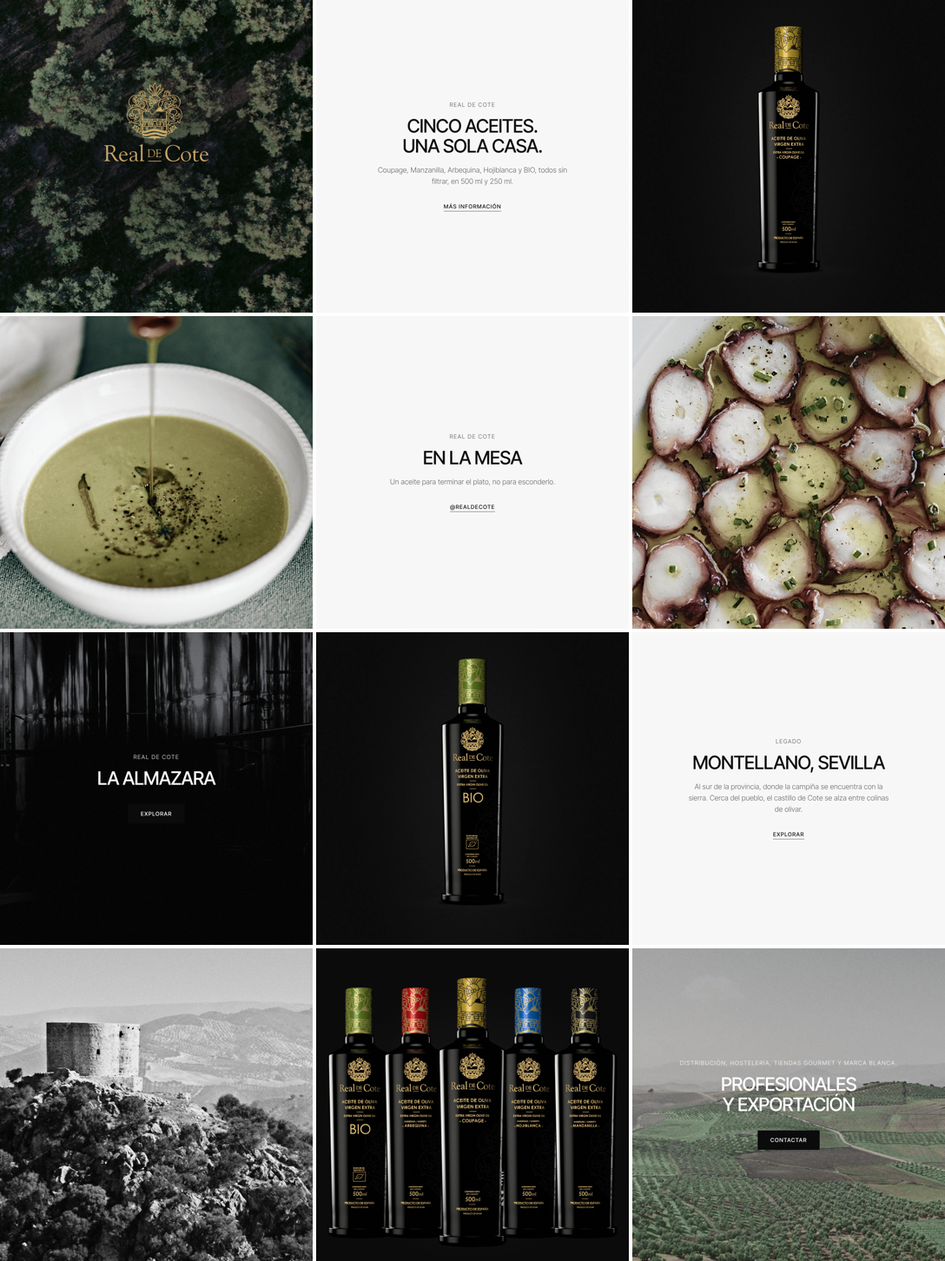
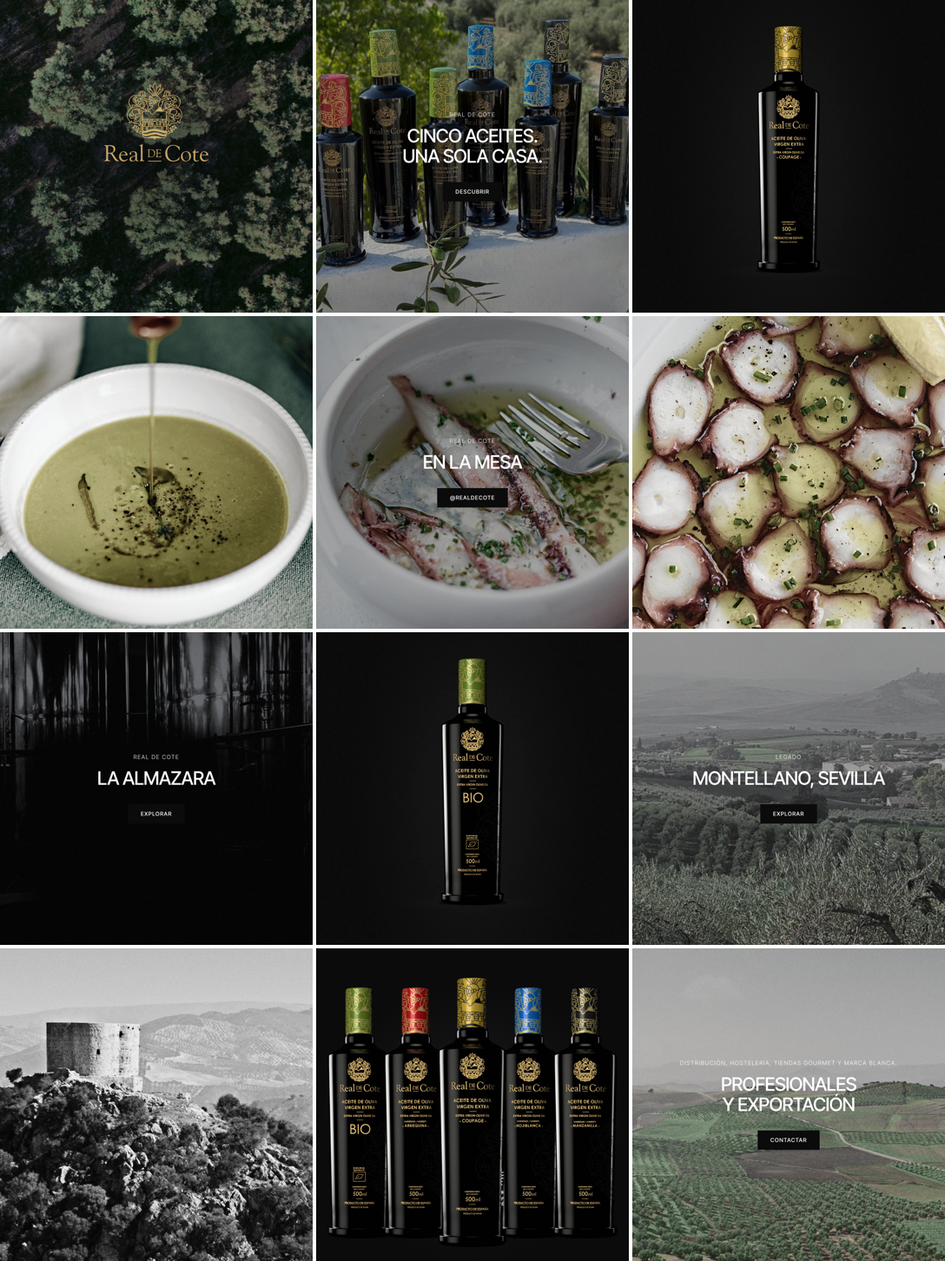
Open every carousel with a photo; fix dish photo order in carousels 4 and 5
Claude-Session: https://claude.ai/code/session_01V2Rynvxapw1gCZn9iDyVeW

Changed region(s): [[0.3125, 0.0, 1.0, 0.7748]]

diff --git a/instagram/grid/grid.html b/instagram/grid/grid.html
@@ -17,13 +17,10 @@ p{font-size:25px;line-height:1.55;color:#666;font-weight:300;margin-top:30px;max
 .cap small{display:block;font-size:17px;color:#999;margin-top:8px;font-weight:300}
 </style></head><body><section id="p1" class="s"><div class="ph" style="background-image:url(foto_hileras-1440.jpg);background-position:35% 45%;background-size:150%;"></div><div class="ph" style="background:radial-gradient(ellipse 60% 45% at 50% 52%,rgba(11,11,12,.5),rgba(11,11,12,.15) 60%,rgba(11,11,12,0))"></div>
 <img src="logo-gold.png" class="abs" style="width:360px;left:360px;top:420px">
-<div class="abs tag" style="left:72px;bottom:72px">Aceite de oliva virgen extra</div></section><section id="p2" class="s light"><div class="c">
- <div class="ov">Real de Cote</div><h1>Cinco aceites.<br>Una sola casa.</h1><p>Coupage, Manzanilla, Arbequina, Hojiblanca y BIO, todos sin filtrar, en 500 ml y 250 ml.</p><div class="cta">Más información</div>
-</div></section><section id="p3" class="s"><div class="ph" style="background-image:url(botellas_coupage_estudio.webp);background-position:center;background-size:cover;"></div><div class="abs cap" style="left:0;width:1080px;text-align:center;bottom:84px">Coupage<small>De la casa</small></div></section><section id="p4" class="s"><div class="ph" style="background-image:url(mesa-1-1920.jpg);background-position:50% 40%;background-size:cover;"></div></section><section id="p5" class="s light"><div class="c">
- <div class="ov">Real de Cote</div><h1>En la mesa</h1><p>Un aceite para terminar el plato, no para esconderlo.</p><div class="cta">@realdecote</div>
-</div></section><section id="p6" class="s"><div class="ph" style="background-image:url(mesa-3-1920.jpg);background-position:50% 50%;background-size:cover;"></div></section><section id="p7" class="s dark"><div class="ph" style="background-image:url(foto_bodega-1920.jpg);background-position:60% 30%;background-size:cover;"></div><div class="ph" style="background:rgba(0,0,0,.5)"></div><div class="c w">
- <div class="ov">Real de Cote</div><h1>La almazara</h1><div class="cta">Explorar</div></div></section><section id="p8" class="s"><div class="ph" style="background-image:url(botellas_bio_estudio.webp);background-position:center;background-size:cover;"></div><div class="abs cap" style="left:0;width:1080px;text-align:center;bottom:84px">BIO<small>Ecológico</small></div></section><section id="p9" class="s light"><div class="c">
- <div class="ov">Legado</div><h1>Montellano, Sevilla</h1><p>Al sur de la provincia, donde la campiña se encuentra con la sierra. Cerca del pueblo, el castillo de Cote se alza entre colinas de olivar.</p><div class="cta">Explorar</div>
-</div></section><section id="p10" class="s"><div class="ph" style="background-image:url(foto_castillo-cote-1920.jpg);background-position:45% 35%;background-size:cover;"></div></section><section id="p11" class="s" style="background:radial-gradient(ellipse 70% 50% at 50% 55%,#1c1c1e,#0b0b0c 70%)"><img src="bio-cutout.png" class="abs" style="width:1100px;left:-400px;top:40px"><img src="arbequina-cutout.png" class="abs" style="width:1100px;left:-205px;top:40px"><img src="hojiblanca-cutout.png" class="abs" style="width:1100px;left:185px;top:40px"><img src="manzanilla-cutout.png" class="abs" style="width:1100px;left:380px;top:40px"><img src="coupage-cutout.png" class="abs" style="width:1180px;left:-50px;top:-10px">
+<div class="abs tag" style="left:72px;bottom:72px">Aceite de oliva virgen extra</div></section><section id="p2" class="s dark"><div class="ph" style="background-image:url(muro-2400.jpg);background-position:50% 50%;background-size:cover;"></div><div class="ph" style="background:rgba(0,0,0,.35)"></div><div class="c w">
+ <div class="ov">Real de Cote</div><h1>Cinco aceites.<br>Una sola casa.</h1><div class="cta">Descubrir</div></div></section><section id="p3" class="s"><div class="ph" style="background-image:url(botellas_coupage_estudio.webp);background-position:center;background-size:cover;"></div><div class="abs cap" style="left:0;width:1080px;text-align:center;bottom:84px">Coupage<small>De la casa</small></div></section><section id="p4" class="s"><div class="ph" style="background-image:url(mesa-1-1920.jpg);background-position:50% 40%;background-size:cover;"></div></section><section id="p5" class="s dark"><div class="ph" style="background-image:url(mesa-5-1920.jpg);background-position:50% 45%;background-size:cover;"></div><div class="ph" style="background:rgba(0,0,0,.3)"></div><div class="c w">
+ <div class="ov">Real de Cote</div><h1>En la mesa</h1><div class="cta">@realdecote</div></div></section><section id="p6" class="s"><div class="ph" style="background-image:url(mesa-3-1920.jpg);background-position:50% 50%;background-size:cover;"></div></section><section id="p7" class="s dark"><div class="ph" style="background-image:url(foto_bodega-1920.jpg);background-position:60% 30%;background-size:cover;"></div><div class="ph" style="background:rgba(0,0,0,.5)"></div><div class="c w">
+ <div class="ov">Real de Cote</div><h1>La almazara</h1><div class="cta">Explorar</div></div></section><section id="p8" class="s"><div class="ph" style="background-image:url(botellas_bio_estudio.webp);background-position:center;background-size:cover;"></div><div class="abs cap" style="left:0;width:1080px;text-align:center;bottom:84px">BIO<small>Ecológico</small></div></section><section id="p9" class="s dark"><div class="ph" style="background-image:url(finca-1920.jpg);background-position:50% 50%;background-size:cover;"></div><div class="ph" style="background:rgba(0,0,0,.35)"></div><div class="c w">
+ <div class="ov">Legado</div><h1>Montellano, Sevilla</h1><div class="cta">Explorar</div></div></section><section id="p10" class="s"><div class="ph" style="background-image:url(foto_castillo-cote-1920.jpg);background-position:45% 35%;background-size:cover;"></div></section><section id="p11" class="s" style="background:radial-gradient(ellipse 70% 50% at 50% 55%,#1c1c1e,#0b0b0c 70%)"><img src="bio-cutout.png" class="abs" style="width:1100px;left:-400px;top:40px"><img src="arbequina-cutout.png" class="abs" style="width:1100px;left:-205px;top:40px"><img src="hojiblanca-cutout.png" class="abs" style="width:1100px;left:185px;top:40px"><img src="manzanilla-cutout.png" class="abs" style="width:1100px;left:380px;top:40px"><img src="coupage-cutout.png" class="abs" style="width:1180px;left:-50px;top:-10px">
 <div class="abs tag" style="left:72px;bottom:72px;color:#fff">La colección</div></section><section id="p12" class="s dark"><div class="ph" style="background-image:url(olivar-colinas-1920.jpg);background-position:50% 60%;background-size:cover;"></div><div class="ph" style="background:rgba(0,0,0,.25)"></div><div class="c w">
  <div class="ov">Distribución, hostelería, tiendas gourmet y marca blanca.</div><h1>Profesionales<br>y exportación</h1><div class="cta">Contactar</div></div></section></body></html>

diff --git a/instagram/grid/carrusel-02.html b/instagram/grid/carrusel-02.html
@@ -18,4 +18,4 @@ p{font-size:25px;line-height:1.55;color:#666;font-weight:300;margin-top:30px;max
 .cap small{display:block;font-size:17px;color:#999;margin-top:8px;font-weight:300}
 .num{position:absolute;right:72px;top:64px;font-size:18px;letter-spacing:.2em;color:#999}
 .dark .num,.s:not(.light) .num{color:rgba(255,255,255,.6)}
-</style></head><body><section id="p2" class="s"><div class="ph" style="background-image:url(botellas_coupage_estudio.webp);background-position:center;background-size:cover"></div><div class="abs cap" style="left:0;width:1080px;text-align:center;bottom:84px">Coupage<small>De la casa</small></div><div class="num">2 / 7</div></section><section id="p3" class="s"><div class="ph" style="background-image:url(botellas_manzanilla_estudio.webp);background-position:center;background-size:cover"></div><div class="abs cap" style="left:0;width:1080px;text-align:center;bottom:84px">Manzanilla<small>Monovarietal</small></div><div class="num">3 / 7</div></section><section id="p4" class="s"><div class="ph" style="background-image:url(botellas_arbequina_estudio.webp);background-position:center;background-size:cover"></div><div class="abs cap" style="left:0;width:1080px;text-align:center;bottom:84px">Arbequina<small>Monovarietal</small></div><div class="num">4 / 7</div></section><section id="p5" class="s"><div class="ph" style="background-image:url(botellas_hojiblanca_estudio.webp);background-position:center;background-size:cover"></div><div class="abs cap" style="left:0;width:1080px;text-align:center;bottom:84px">Hojiblanca<small>Monovarietal</small></div><div class="num">5 / 7</div></section><section id="p6" class="s"><div class="ph" style="background-image:url(botellas_bio_estudio.webp);background-position:center;background-size:cover"></div><div class="abs cap" style="left:0;width:1080px;text-align:center;bottom:84px">BIO<small>Ecológico</small></div><div class="num">6 / 7</div></section><section id="p7" class="s light"><div class="c"><div class="ov">Formatos</div><h1>500 ml · 250 ml</h1><p>Cada aceite con su ficha técnica: variedad, información nutricional, formatos y conservación.</p><div class=cta>Más información</div></div><div class="num">7 / 7</div></section></body></html>
+</style></head><body><section id="p2" class="s light"><div class="c"><div class="ov">Real de Cote</div><h1>Cinco aceites.<br>Una sola casa.</h1><p>Coupage, Manzanilla, Arbequina, Hojiblanca y BIO, todos sin filtrar, en 500 ml y 250 ml.</p></div><div class="num">2 / 8</div></section><section id="p3" class="s"><div class="ph" style="background-image:url(botellas_coupage_estudio.webp);background-position:center;background-size:cover"></div><div class="abs cap" style="left:0;width:1080px;text-align:center;bottom:84px">Coupage<small>De la casa</small></div><div class="num">3 / 8</div></section><section id="p4" class="s"><div class="ph" style="background-image:url(botellas_manzanilla_estudio.webp);background-position:center;background-size:cover"></div><div class="abs cap" style="left:0;width:1080px;text-align:center;bottom:84px">Manzanilla<small>Monovarietal</small></div><div class="num">4 / 8</div></section><section id="p5" class="s"><div class="ph" style="background-image:url(botellas_arbequina_estudio.webp);background-position:center;background-size:cover"></div><div class="abs cap" style="left:0;width:1080px;text-align:center;bottom:84px">Arbequina<small>Monovarietal</small></div><div class="num">5 / 8</div></section><section id="p6" class="s"><div class="ph" style="background-image:url(botellas_hojiblanca_estudio.webp);background-position:center;background-size:cover"></div><div class="abs cap" style="left:0;width:1080px;text-align:center;bottom:84px">Hojiblanca<small>Monovarietal</small></div><div class="num">6 / 8</div></section><section id="p7" class="s"><div class="ph" style="background-image:url(botellas_bio_estudio.webp);background-position:center;background-size:cover"></div><div class="abs cap" style="left:0;width:1080px;text-align:center;bottom:84px">BIO<small>Ecológico</small></div><div class="num">7 / 8</div></section><section id="p8" class="s light"><div class="c"><div class="ov">Formatos</div><h1>500 ml · 250 ml</h1><p>Cada aceite con su ficha técnica: variedad, información nutricional, formatos y conservación.</p><div class=cta>Más información</div></div><div class="num">8 / 8</div></section></body></html>

diff --git a/instagram/grid/carrusel-09.html b/instagram/grid/carrusel-09.html
@@ -18,4 +18,4 @@ p{font-size:25px;line-height:1.55;color:#666;font-weight:300;margin-top:30px;max
 .cap small{display:block;font-size:17px;color:#999;margin-top:8px;font-weight:300}
 .num{position:absolute;right:72px;top:64px;font-size:18px;letter-spacing:.2em;color:#999}
 .dark .num,.s:not(.light) .num{color:rgba(255,255,255,.6)}
-</style></head><body><section id="p2" class="s"><div class="ph" style="background-image:url(foto_castillo-cote-1920.jpg);background-position:45% 35%;background-size:cover"></div><div class="num">2 / 6</div></section><section id="p3" class="s light"><div class="c"><div class="ov">Legado</div><h1>Montellano</h1><p>Al sur de la provincia de Sevilla, donde la campiña se encuentra con la sierra.</p></div><div class="num">3 / 6</div></section><section id="p4" class="s"><div class="ph" style="background-image:url(finca-1920.jpg);background-position:50% 50%;background-size:cover"></div><div class="num">4 / 6</div></section><section id="p5" class="s light"><div class="c"><div class="ov">Legado</div><h1>Finca Cote</h1><p>Ctra. de Coripe, km 2,3. Entre colinas de olivar.</p></div><div class="num">5 / 6</div></section><section id="p6" class="s" style="background:linear-gradient(180deg,#0b0b0c,#0a1626)"><img src="logo-gold.png" class="abs" style="width:230px;left:425px;top:520px"><div class="abs cap" style="left:0;width:1080px;text-align:center;top:800px;font-weight:300;letter-spacing:.3em;font-size:17px">realdecote.es · @realdecote</div><div class="num">6 / 6</div></section></body></html>
+</style></head><body><section id="p2" class="s light"><div class="c"><div class="ov">Legado</div><h1>Montellano, Sevilla</h1><p>Cerca del pueblo, el castillo de Cote se alza en lo alto de un cerro, entre colinas de olivar.</p></div><div class="num">2 / 7</div></section><section id="p3" class="s"><div class="ph" style="background-image:url(foto_castillo-cote-1920.jpg);background-position:45% 35%;background-size:cover"></div><div class="num">3 / 7</div></section><section id="p4" class="s light"><div class="c"><div class="ov">Legado</div><h1>Montellano</h1><p>Al sur de la provincia de Sevilla, donde la campiña se encuentra con la sierra.</p></div><div class="num">4 / 7</div></section><section id="p5" class="s"><div class="ph" style="background-image:url(finca-1920.jpg);background-position:50% 50%;background-size:cover"></div><div class="num">5 / 7</div></section><section id="p6" class="s light"><div class="c"><div class="ov">Legado</div><h1>Finca Cote</h1><p>Ctra. de Coripe, km 2,3. Entre colinas de olivar.</p></div><div class="num">6 / 7</div></section><section id="p7" class="s" style="background:linear-gradient(180deg,#0b0b0c,#0a1626)"><img src="logo-gold.png" class="abs" style="width:230px;left:425px;top:520px"><div class="abs cap" style="left:0;width:1080px;text-align:center;top:800px;font-weight:300;letter-spacing:.3em;font-size:17px">realdecote.es · @realdecote</div><div class="num">7 / 7</div></section></body></html>

diff --git a/instagram/grid/carrusel-05.html b/instagram/grid/carrusel-05.html
@@ -18,4 +18,4 @@ p{font-size:25px;line-height:1.55;color:#666;font-weight:300;margin-top:30px;max
 .cap small{display:block;font-size:17px;color:#999;margin-top:8px;font-weight:300}
 .num{position:absolute;right:72px;top:64px;font-size:18px;letter-spacing:.2em;color:#999}
 .dark .num,.s:not(.light) .num{color:rgba(255,255,255,.6)}
-</style></head><body><section id="p2" class="s"><div class="ph" style="background-image:url(mesa-2-1920.jpg);background-position:center;background-size:cover"></div><div class="num">2 / 6</div></section><section id="p3" class="s light"><div class="c"><div class="ov">En la mesa</div><h1>Crudo</h1><p>Donde el aceite se nota es en el plato terminado.</p></div><div class="num">3 / 6</div></section><section id="p4" class="s"><div class="ph" style="background-image:url(mesa-5-1920.jpg);background-position:50% 45%;background-size:cover"></div><div class="num">4 / 6</div></section><section id="p5" class="s light"><div class="c"><div class="ov">En la mesa</div><h1>También en dulce</h1><p>Un virgen extra de perfil suave en repostería.</p></div><div class="num">5 / 6</div></section><section id="p6" class="s" style="background:linear-gradient(180deg,#0b0b0c,#0a1626)"><img src="logo-gold.png" class="abs" style="width:230px;left:425px;top:520px"><div class="abs cap" style="left:0;width:1080px;text-align:center;top:800px;font-weight:300;letter-spacing:.3em;font-size:17px">realdecote.es · @realdecote</div><div class="num">6 / 6</div></section></body></html>
+</style></head><body><section id="p2" class="s light"><div class="c"><div class="ov">Real de Cote</div><h1>En la mesa</h1><p>Un aceite para terminar el plato, no para esconderlo.</p></div><div class="num">2 / 7</div></section><section id="p3" class="s"><div class="ph" style="background-image:url(mesa-2-1920.jpg);background-position:center;background-size:cover"></div><div class="num">3 / 7</div></section><section id="p4" class="s light"><div class="c"><div class="ov">En la mesa</div><h1>Crudo</h1><p>Donde el aceite se nota es en el plato terminado.</p></div><div class="num">4 / 7</div></section><section id="p5" class="s"><div class="ph" style="background-image:url(mesa-6-1440.jpg);background-position:50% 50%;background-size:cover"></div><div class="num">5 / 7</div></section><section id="p6" class="s light"><div class="c"><div class="ov">En la mesa</div><h1>También en dulce</h1><p>Un virgen extra de perfil suave en repostería.</p></div><div class="num">6 / 7</div></section><section id="p7" class="s" style="background:linear-gradient(180deg,#0b0b0c,#0a1626)"><img src="logo-gold.png" class="abs" style="width:230px;left:425px;top:520px"><div class="abs cap" style="left:0;width:1080px;text-align:center;top:800px;font-weight:300;letter-spacing:.3em;font-size:17px">realdecote.es · @realdecote</div><div class="num">7 / 7</div></section></body></html>

diff --git a/instagram/grid/carrusel-04.html b/instagram/grid/carrusel-04.html
@@ -18,4 +18,4 @@ p{font-size:25px;line-height:1.55;color:#666;font-weight:300;margin-top:30px;max
 .cap small{display:block;font-size:17px;color:#999;margin-top:8px;font-weight:300}
 .num{position:absolute;right:72px;top:64px;font-size:18px;letter-spacing:.2em;color:#999}
 .dark .num,.s:not(.light) .num{color:rgba(255,255,255,.6)}
-</style></head><body><section id="p2" class="s light"><div class="c"><div class="ov">En la mesa</div><h1>Un hilo<br>al final</h1><p>El aceite se añade al terminar, en crudo. Así conserva aroma y sabor.</p></div><div class="num">2 / 6</div></section><section id="p3" class="s"><div class="ph" style="background-image:url(mesa-6-1440.jpg);background-position:50% 50%;background-size:cover"></div><div class="num">3 / 6</div></section><section id="p4" class="s light"><div class="c"><div class="ov">En la mesa</div><h1>Pescado y aceite</h1><p>Bonito, conserva, marinado. Un monovarietal suave acompaña sin cubrir.</p></div><div class="num">4 / 6</div></section><section id="p5" class="s"><div class="ph" style="background-image:url(mesa-4-1920.jpg);background-position:50% 50%;background-size:cover"></div><div class="num">5 / 6</div></section><section id="p6" class="s" style="background:linear-gradient(180deg,#0b0b0c,#0a1626)"><img src="logo-gold.png" class="abs" style="width:230px;left:425px;top:520px"><div class="abs cap" style="left:0;width:1080px;text-align:center;top:800px;font-weight:300;letter-spacing:.3em;font-size:17px">realdecote.es · @realdecote</div><div class="num">6 / 6</div></section></body></html>
+</style></head><body><section id="p2" class="s light"><div class="c"><div class="ov">En la mesa</div><h1>Un hilo<br>al final</h1><p>El aceite se añade al terminar, en crudo. Así conserva aroma y sabor.</p></div><div class="num">2 / 6</div></section><section id="p3" class="s"><div class="ph" style="background-image:url(mesa-5-1920.jpg);background-position:50% 45%;background-size:cover"></div><div class="num">3 / 6</div></section><section id="p4" class="s light"><div class="c"><div class="ov">En la mesa</div><h1>Pescado y aceite</h1><p>Bonito, conserva, marinado. Un monovarietal suave acompaña sin cubrir.</p></div><div class="num">4 / 6</div></section><section id="p5" class="s"><div class="ph" style="background-image:url(mesa-4-1920.jpg);background-position:50% 50%;background-size:cover"></div><div class="num">5 / 6</div></section><section id="p6" class="s" style="background:linear-gradient(180deg,#0b0b0c,#0a1626)"><img src="logo-gold.png" class="abs" style="width:230px;left:425px;top:520px"><div class="abs cap" style="left:0;width:1080px;text-align:center;top:800px;font-weight:300;letter-spacing:.3em;font-size:17px">realdecote.es · @realdecote</div><div class="num">6 / 6</div></section></body></html>

diff --git a/instagram/grid/gen_carruseles.py b/instagram/grid/gen_carruseles.py
@@ -43,15 +43,15 @@ C={
     foto('foto_hoja-1920.jpg','40% 50%'),
     light('La casa','Cinco aceites.<br>Una sola casa.','Coupage, Manzanilla, Arbequina, Hojiblanca y BIO.','Descubrir'),
     foto('foto_hileras-1440.jpg','35% 45%','150%'),CIERRE],
- 2:[botella('coupage','Coupage','De la casa'),botella('manzanilla','Manzanilla','Monovarietal'),botella('arbequina','Arbequina','Monovarietal'),botella('hojiblanca','Hojiblanca','Monovarietal'),botella('bio','BIO','Ecológico'),
+ 2:[light('Real de Cote','Cinco aceites.<br>Una sola casa.','Coupage, Manzanilla, Arbequina, Hojiblanca y BIO, todos sin filtrar, en 500 ml y 250 ml.'),botella('coupage','Coupage','De la casa'),botella('manzanilla','Manzanilla','Monovarietal'),botella('arbequina','Arbequina','Monovarietal'),botella('hojiblanca','Hojiblanca','Monovarietal'),botella('bio','BIO','Ecológico'),
     light('Formatos','500 ml · 250 ml','Cada aceite con su ficha técnica: variedad, información nutricional, formatos y conservación.','Más información')],
  3:[detalle('coupage'),light('Coupage','De la casa','Varias variedades, un solo carácter. El aceite con el que empezar.'),
     foto('mesa-2-1920.jpg','50% 50%'),light('Coupage','Para todo','Crudo sobre pan, verdura, pescado o carne.'),CIERRE],
  4:[light('En la mesa','Un hilo<br>al final','El aceite se añade al terminar, en crudo. Así conserva aroma y sabor.'),
-    foto('mesa-6-1440.jpg','50% 50%'),light('En la mesa','Pescado y aceite','Bonito, conserva, marinado. Un monovarietal suave acompaña sin cubrir.'),
+    foto('mesa-5-1920.jpg','50% 45%'),light('En la mesa','Pescado y aceite','Bonito, conserva, marinado. Un monovarietal suave acompaña sin cubrir.'),
     foto('mesa-4-1920.jpg','50% 50%'),CIERRE],
- 5:[foto('mesa-2-1920.jpg'),light('En la mesa','Crudo','Donde el aceite se nota es en el plato terminado.'),
-    foto('mesa-5-1920.jpg','50% 45%'),light('En la mesa','También en dulce','Un virgen extra de perfil suave en repostería.'),CIERRE],
+ 5:[light('Real de Cote','En la mesa','Un aceite para terminar el plato, no para esconderlo.'),foto('mesa-2-1920.jpg'),light('En la mesa','Crudo','Donde el aceite se nota es en el plato terminado.'),
+    foto('mesa-6-1440.jpg','50% 50%'),light('En la mesa','También en dulce','Un virgen extra de perfil suave en repostería.'),CIERRE],
  6:[light('En la mesa','Pulpo, patata<br>y aceite','Un plato sencillo pide un aceite con carácter.'),
     botella('hojiblanca','Hojiblanca','Monovarietal'),light('Hojiblanca','Con cuerpo','Frutado intenso, ligero amargor y picante final.'),CIERRE],
  7:[light('La almazara','Sin filtrar','El aceite pasa a la botella tal como sale de la almazara. Por eso no es transparente.'),
@@ -59,7 +59,7 @@ C={
     foto('foto_bodega-1920.jpg','60% 30%'),CIERRE],
  8:[detalle('bio','50% 30%'),light('BIO','Ecológico','Olivar en ecológico, con certificación de la Unión Europea.'),
     foto('olivo-centenario-1920.jpg','50% 50%'),light('BIO','La tierra manda','Sin tratamientos de síntesis. El mismo cuidado, otro camino.'),CIERRE],
- 9:[foto('foto_castillo-cote-1920.jpg','45% 35%'),light('Legado','Montellano','Al sur de la provincia de Sevilla, donde la campiña se encuentra con la sierra.'),
+ 9:[light('Legado','Montellano, Sevilla','Cerca del pueblo, el castillo de Cote se alza en lo alto de un cerro, entre colinas de olivar.'),foto('foto_castillo-cote-1920.jpg','45% 35%'),light('Legado','Montellano','Al sur de la provincia de Sevilla, donde la campiña se encuentra con la sierra.'),
     foto('finca-1920.jpg','50% 50%'),light('Legado','Finca Cote','Ctra. de Coripe, km 2,3. Entre colinas de olivar.'),CIERRE],
  10:[light('Legado','El castillo<br>de Cote','En lo alto de un cerro, cerca del pueblo. El nombre de la casa viene de aquí.'),
     foto('olivar-colinas-1920.jpg','50% 60%'),light('Legado','Un paisaje','Olivar, campiña y sierra. Lo que se ve desde el castillo.'),

diff --git a/instagram/grid/gen.py b/instagram/grid/gen.py
@@ -14,13 +14,13 @@ posts.append(f'''<section class="s">{photo('foto_hileras-1440.jpg','35% 45%','15
 <img src="logo-gold.png" class="abs" style="width:360px;left:360px;top:420px">
 <div class="abs tag" style="left:72px;bottom:72px">Aceite de oliva virgen extra</div></section>''')
 # 2 · texto claro
-posts.append(light('Real de Cote','Cinco aceites.<br>Una sola casa.','Coupage, Manzanilla, Arbequina, Hojiblanca y BIO, todos sin filtrar, en 500 ml y 250 ml.','Más información'))
+posts.append(dark_over('muro-2400.jpg','Real de Cote','Cinco aceites.<br>Una sola casa.','50% 50%','Descubrir','.35'))
 # 3 · botella coupage sobre negro (foto de estudio)
 posts.append(f'''<section class="s">{photo('botellas_coupage_estudio.webp')}<div class="abs cap" style="left:0;width:1080px;text-align:center;bottom:84px">Coupage<small>De la casa</small></div></section>''')
 # 4 · plato
 posts.append(f'<section class="s">{photo("mesa-1-1920.jpg","50% 40%")}</section>')
 # 5 · En la mesa (texto claro, como la sección)
-posts.append(light('Real de Cote','En la mesa','Un aceite para terminar el plato, no para esconderlo.','@realdecote'))
+posts.append(dark_over('mesa-5-1920.jpg','Real de Cote','En la mesa','50% 45%','@realdecote','.3'))
 # 6 · plato
 posts.append(f'<section class="s">{photo("mesa-3-1920.jpg","50% 50%")}</section>')
 # 7 · almazara
@@ -28,7 +28,7 @@ posts.append(dark_over('foto_bodega-1920.jpg','Real de Cote','La almazara','60% 
 # 8 · botella BIO
 posts.append(f'''<section class="s">{photo('botellas_bio_estudio.webp')}<div class="abs cap" style="left:0;width:1080px;text-align:center;bottom:84px">BIO<small>Ecológico</small></div></section>''')
 # 9 · legado
-posts.append(light('Legado','Montellano, Sevilla','Al sur de la provincia, donde la campiña se encuentra con la sierra. Cerca del pueblo, el castillo de Cote se alza entre colinas de olivar.','Explorar'))
+posts.append(dark_over('finca-1920.jpg','Legado','Montellano, Sevilla','50% 50%','Explorar','.35'))
 # 10 · castillo
 posts.append(f'<section class="s">{photo("foto_castillo-cote-1920.jpg","45% 35%")}</section>')
 # 11 · colección: cinco botellas sobre negro
